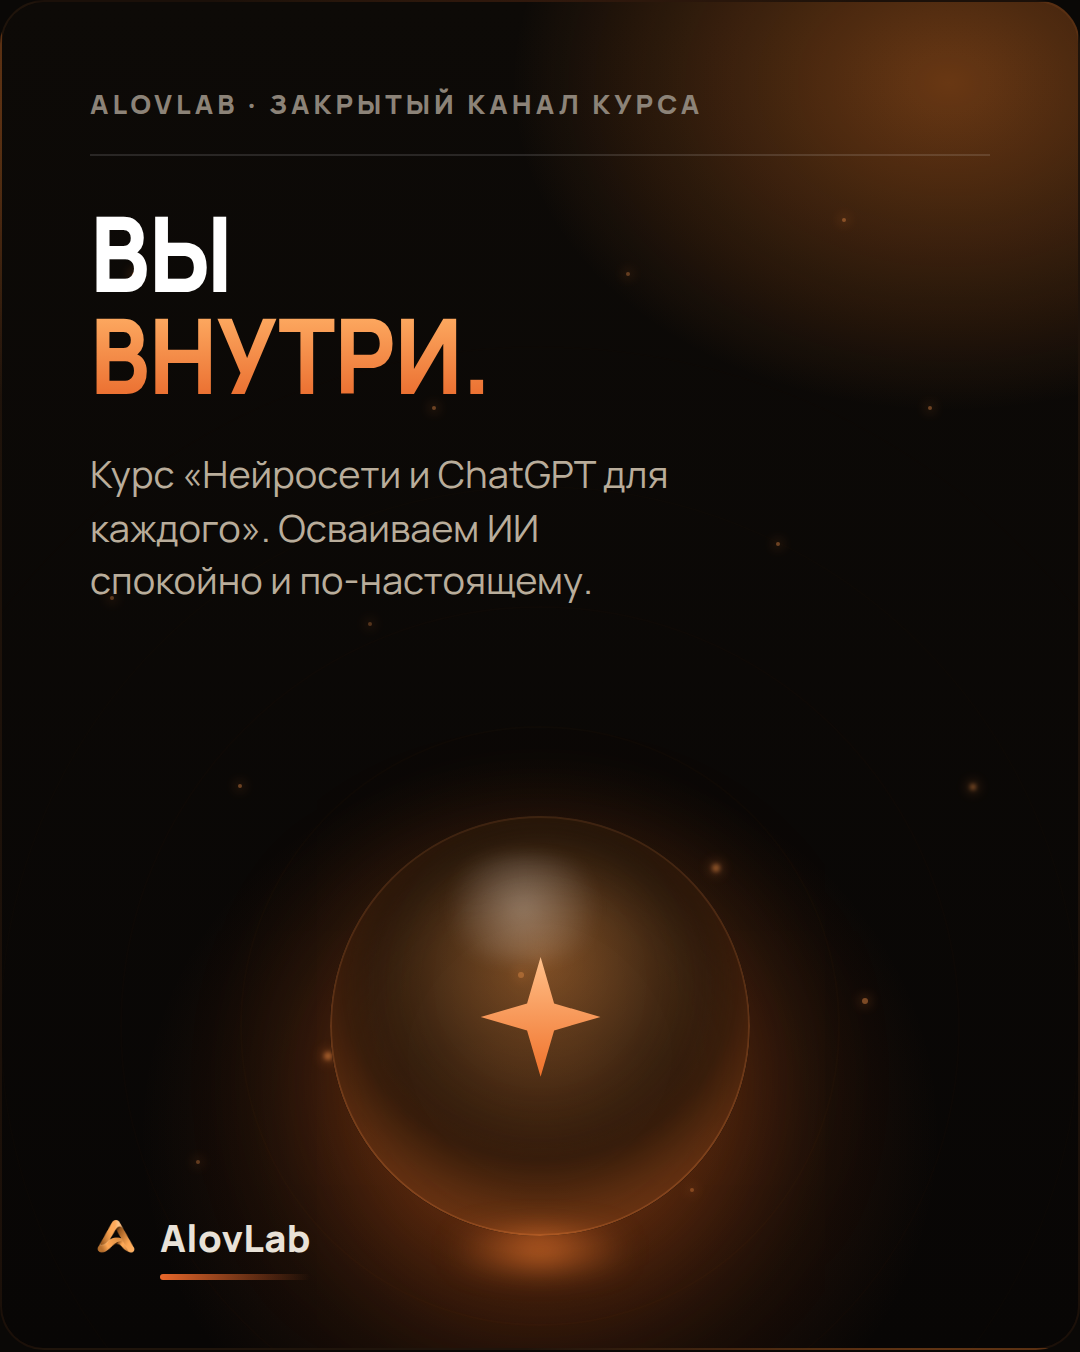
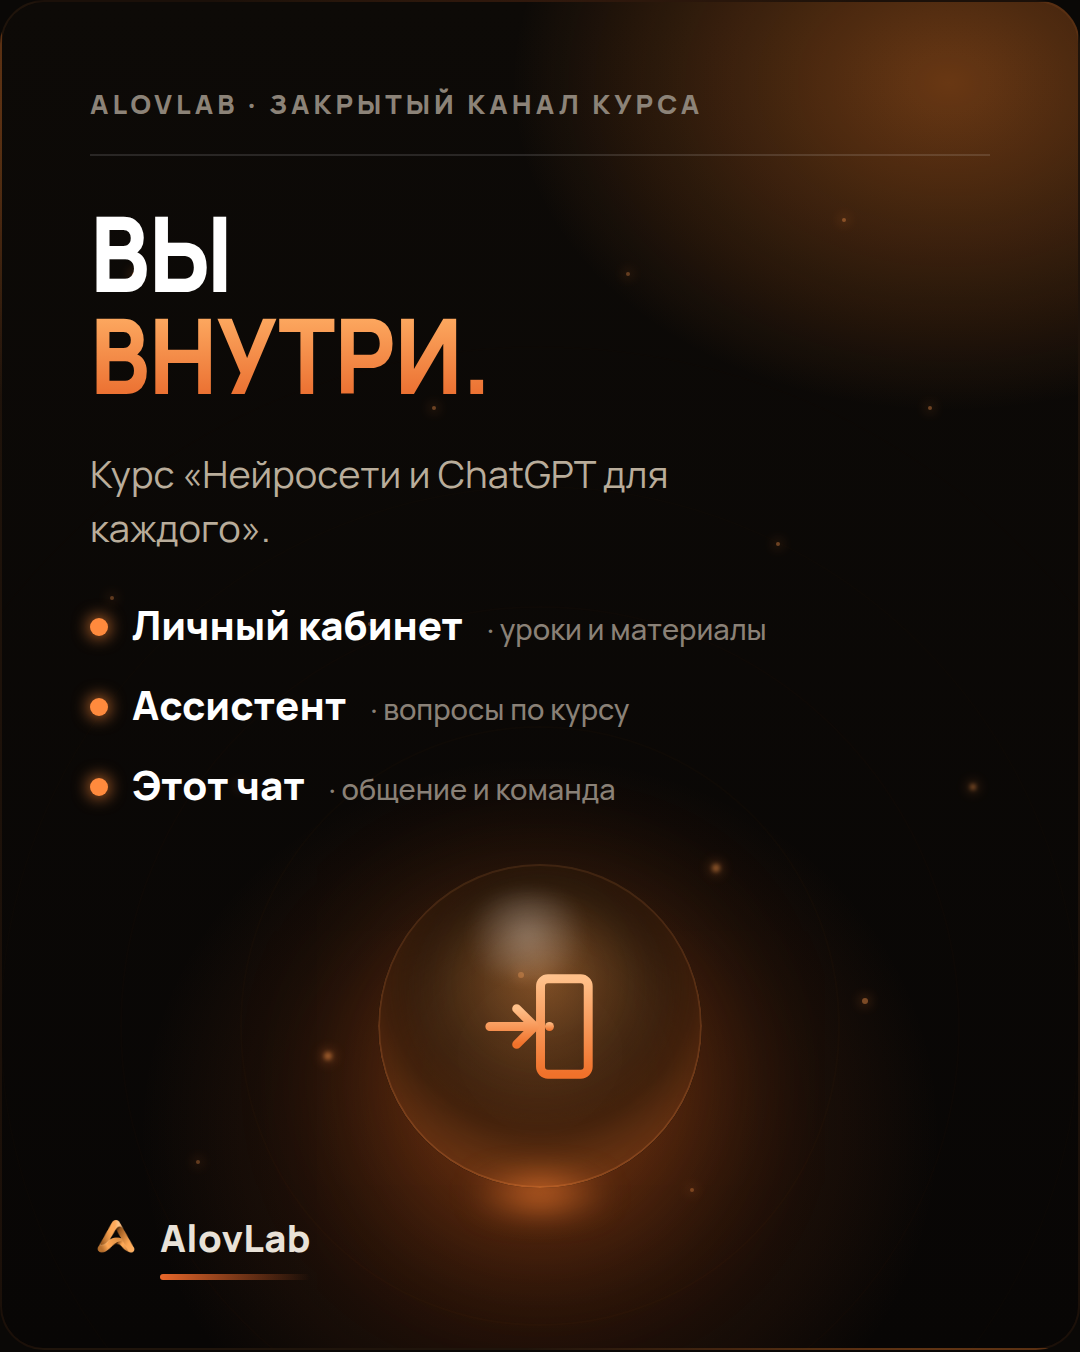
Обложка канала v2: знак «вход» + метки пути (кабинет · ассистент · чат)
Claude-Session: https://claude.ai/code/session_019LoRMaWcrsShywAHDg8vmg

Changed region(s): [[0.0611, 0.3728, 0.7028, 0.5902], [0.3056, 0.7456, 0.7028, 0.963], [0.3972, 0.6213, 0.5806, 0.8077]]

diff --git a/exports/covers/channel-cover.html b/exports/covers/channel-cover.html
@@ -72,12 +72,25 @@ padding:42px 44px;display:flex;flex-direction:column;border:1px solid rgba(255,1
 .cta .clist .li b{color:#fff;font-weight:700}
 .cta .btn{position:relative;z-index:4;align-self:flex-start;margin-top:26px;font-weight:800;font-size:17px;color:#160e07;
  background:linear-gradient(150deg,var(--o2),var(--o));border-radius:13px;padding:16px 26px;box-shadow:0 16px 34px -12px rgba(232,103,42,.8)}
+
+.cover .sub{max-width:30ch}
+.path{position:relative;z-index:4;margin-top:22px;display:flex;flex-direction:column;gap:13px}
+.path .pi{display:flex;align-items:baseline;gap:12px}
+.path .pi i{width:9px;height:9px;border-radius:50%;background:var(--o2);flex:0 0 auto;position:relative;top:-2px;
+ box-shadow:0 0 8px 1px rgba(255,140,60,.7)}
+.path .pi b{font-weight:800;font-size:20px;color:#fff}
+.path .pi span{font-size:14.5px;color:#8a8177;font-weight:500}
 </style>
 <div class="page"><div class="grid"><article class="slide cover"><svg width="0" height="0"><defs><linearGradient id="ig" x1="0" y1="0" x2="0" y2="1"><stop offset="0" stop-color="#ffc089"/><stop offset="1" stop-color="#f0712a"/></linearGradient></defs></svg>
   <div class="sparks"><span style="position:absolute;left:12%;top:20%;width:3px;height:3px;border-radius:50%;background:#ff9a4d;opacity:0.5;filter:blur(0px);box-shadow:0 0 6px 1px rgba(255,140,60,.6)"></span><span style="position:absolute;left:22%;top:58%;width:2px;height:2px;border-radius:50%;background:#ff9a4d;opacity:0.4;filter:blur(0px);box-shadow:0 0 6px 1px rgba(255,140,60,.6)"></span><span style="position:absolute;left:30%;top:78%;width:4px;height:4px;border-radius:50%;background:#ff9a4d;opacity:0.55;filter:blur(1px);box-shadow:0 0 6px 1px rgba(255,140,60,.6)"></span><span style="position:absolute;left:18%;top:86%;width:2px;height:2px;border-radius:50%;background:#ff9a4d;opacity:0.35;filter:blur(0px);box-shadow:0 0 6px 1px rgba(255,140,60,.6)"></span><span style="position:absolute;left:40%;top:30%;width:2px;height:2px;border-radius:50%;background:#ff9a4d;opacity:0.4;filter:blur(0px);box-shadow:0 0 6px 1px rgba(255,140,60,.6)"></span><span style="position:absolute;left:48%;top:72%;width:3px;height:3px;border-radius:50%;background:#ff9a4d;opacity:0.45;filter:blur(0px);box-shadow:0 0 6px 1px rgba(255,140,60,.6)"></span><span style="position:absolute;left:58%;top:20%;width:2px;height:2px;border-radius:50%;background:#ff9a4d;opacity:0.35;filter:blur(0px);box-shadow:0 0 6px 1px rgba(255,140,60,.6)"></span><span style="position:absolute;left:66%;top:64%;width:4px;height:4px;border-radius:50%;background:#ff9a4d;opacity:0.5;filter:blur(1px);box-shadow:0 0 6px 1px rgba(255,140,60,.6)"></span><span style="position:absolute;left:72%;top:40%;width:2px;height:2px;border-radius:50%;background:#ff9a4d;opacity:0.4;filter:blur(0px);box-shadow:0 0 6px 1px rgba(255,140,60,.6)"></span><span style="position:absolute;left:80%;top:74%;width:3px;height:3px;border-radius:50%;background:#ff9a4d;opacity:0.45;filter:blur(0px);box-shadow:0 0 6px 1px rgba(255,140,60,.6)"></span><span style="position:absolute;left:86%;top:30%;width:2px;height:2px;border-radius:50%;background:#ff9a4d;opacity:0.4;filter:blur(0px);box-shadow:0 0 6px 1px rgba(255,140,60,.6)"></span><span style="position:absolute;left:90%;top:58%;width:3px;height:3px;border-radius:50%;background:#ff9a4d;opacity:0.5;filter:blur(1px);box-shadow:0 0 6px 1px rgba(255,140,60,.6)"></span><span style="position:absolute;left:64%;top:88%;width:2px;height:2px;border-radius:50%;background:#ff9a4d;opacity:0.35;filter:blur(0px);box-shadow:0 0 6px 1px rgba(255,140,60,.6)"></span><span style="position:absolute;left:34%;top:46%;width:2px;height:2px;border-radius:50%;background:#ff9a4d;opacity:0.3;filter:blur(0px);box-shadow:0 0 6px 1px rgba(255,140,60,.6)"></span><span style="position:absolute;left:78%;top:16%;width:2px;height:2px;border-radius:50%;background:#ff9a4d;opacity:0.4;filter:blur(0px);box-shadow:0 0 6px 1px rgba(255,140,60,.6)"></span><span style="position:absolute;left:10%;top:44%;width:2px;height:2px;border-radius:50%;background:#ff9a4d;opacity:0.35;filter:blur(0px);box-shadow:0 0 6px 1px rgba(255,140,60,.6)"></span></div>
-  <div class="stage"><div class="rings"><i style="width:300px;height:300px;opacity:0.18"></i><i style="width:420px;height:420px;opacity:0.15"></i><i style="width:540px;height:540px;opacity:0.12"></i><i style="width:680px;height:680px;opacity:0.09"></i></div><div class="orbw"><div class="orb big"><svg viewBox="0 0 100 100" style="width:46%;height:46%;position:absolute;left:27%;top:27%;z-index:3" fill="url(#ig)" stroke="none"><path d="M50 14l7 24 24 7-24 7-7 24-7-24-24-7 24-7z"/></svg></div></div></div>
+  <div class="stage"><div class="rings"><i style="width:300px;height:300px;opacity:0.18"></i><i style="width:420px;height:420px;opacity:0.15"></i><i style="width:540px;height:540px;opacity:0.12"></i><i style="width:680px;height:680px;opacity:0.09"></i></div><div class="orbw"><div class="orb"><svg viewBox="0 0 100 100" style="width:46%;height:46%;position:absolute;left:27%;top:27%;z-index:3" fill="none" stroke="url(#ig)" stroke-width="6" stroke-linecap="round" stroke-linejoin="round"><rect x="50" y="18" width="32" height="64" rx="5"/><path d="M16 50h30M34 38l12 12-12 12"/><circle cx="56" cy="50" r="3" fill="url(#ig)" stroke="none"/></svg></div></div></div>
   <div class="top"><span class="eb">AlovLab · закрытый канал курса</span></div>
   <div class="head"><h2><span class="w">Вы</span><span class="o">внутри.</span></h2></div>
-  <div class="sub">Курс «Нейросети и ChatGPT для каждого». Осваиваем ИИ спокойно и по-настоящему.</div>
+  <div class="sub">Курс «Нейросети и ChatGPT для каждого».</div>
+  <div class="path">
+    <div class="pi"><i></i><b>Личный кабинет</b> <span>· уроки и материалы</span></div>
+    <div class="pi"><i></i><b>Ассистент</b> <span>· вопросы по курсу</span></div>
+    <div class="pi"><i></i><b>Этот чат</b> <span>· общение и команда</span></div>
+  </div>
[1 lines of base64/hex data omitted]
 </article></div></div>

diff --git a/scripts/cover_channel.py b/scripts/cover_channel.py
@@ -1,18 +1,44 @@
 # -*- coding: utf-8 -*-
-"""AlovLab · обложка закрытого канала курса (showcase-стиль). 4:5, 1080x1350.
-Запуск: python3 scripts/cover_channel.py"""
+"""AlovLab · обложка закрытого канала курса под закреп (showcase). 4:5, 1080x1350.
+Тематический знак «вход» + метки пути (кабинет · ассистент · чат). python3 scripts/cover_channel.py"""
 import pathlib
-from carousel_showcase_render import (CSS, DEFS, FOOT, sparks, rings, icon, ROOT)
+from carousel_showcase_render import (CSS as CSS0, DEFS, FOOT, sparks, rings, LOGO, ROOT)
 
 OUTDIR = ROOT / "exports" / "covers"; OUTDIR.mkdir(parents=True, exist_ok=True)
 OUT = OUTDIR / "channel-cover.html"
 
+EXTRA = r"""
+.cover .sub{max-width:30ch}
+.path{position:relative;z-index:4;margin-top:22px;display:flex;flex-direction:column;gap:13px}
+.path .pi{display:flex;align-items:baseline;gap:12px}
+.path .pi i{width:9px;height:9px;border-radius:50%;background:var(--o2);flex:0 0 auto;position:relative;top:-2px;
+ box-shadow:0 0 8px 1px rgba(255,140,60,.7)}
+.path .pi b{font-weight:800;font-size:20px;color:#fff}
+.path .pi span{font-size:14.5px;color:#8a8177;font-weight:500}
+"""
+CSS = CSS0 + EXTRA
+
+# знак «вход»: стрелка входит в дверь
+ENTER = ('<svg viewBox="0 0 100 100" style="width:46%;height:46%;position:absolute;left:27%;top:27%;z-index:3" '
+         'fill="none" stroke="url(#ig)" stroke-width="6" stroke-linecap="round" stroke-linejoin="round">'
+         '<rect x="50" y="18" width="32" height="64" rx="5"/>'
+         '<path d="M16 50h30M34 38l12 12-12 12"/>'
+         '<circle cx="56" cy="50" r="3" fill="url(#ig)" stroke="none"/></svg>')
+
+def pi(b, s):
+    return f'<div class="pi"><i></i><b>{b}</b> <span>· {s}</span></div>'
+
 SLIDE = f"""<article class="slide cover">{DEFS}
   <div class="sparks">{sparks()}</div>
-  <div class="stage"><div class="rings">{rings()}</div><div class="orbw"><div class="orb big">{icon('spark')}</div></div></div>
+  <div class="stage"><div class="rings">{rings()}</div><div class="orbw"><div class="orb">{ENTER}</div></div></div>
   <div class="top"><span class="eb">AlovLab · закрытый канал курса</span></div>
   <div class="head"><h2><span class="w">Вы</span><span class="o">внутри.</span></h2></div>
-  <div class="sub">Курс «Нейросети и ChatGPT для каждого». Осваиваем ИИ спокойно и по-настоящему.</div>
+  <div class="sub">Курс «Нейросети и ChatGPT для каждого».</div>
+  <div class="path">
+    {pi("Личный кабинет", "уроки и материалы")}
+    {pi("Ассистент", "вопросы по курсу")}
+    {pi("Этот чат", "общение и команда")}
+  </div>
   {FOOT}
 </article>"""
 
